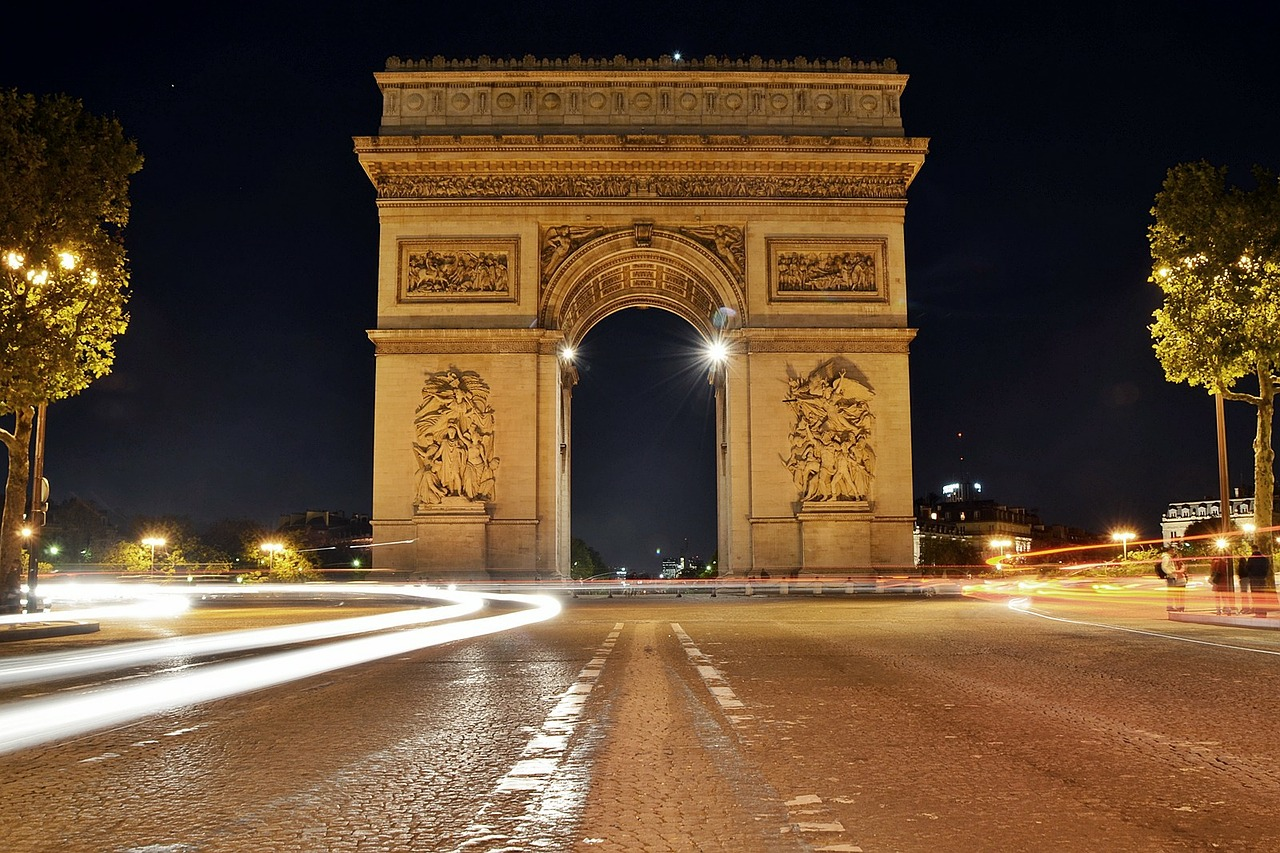
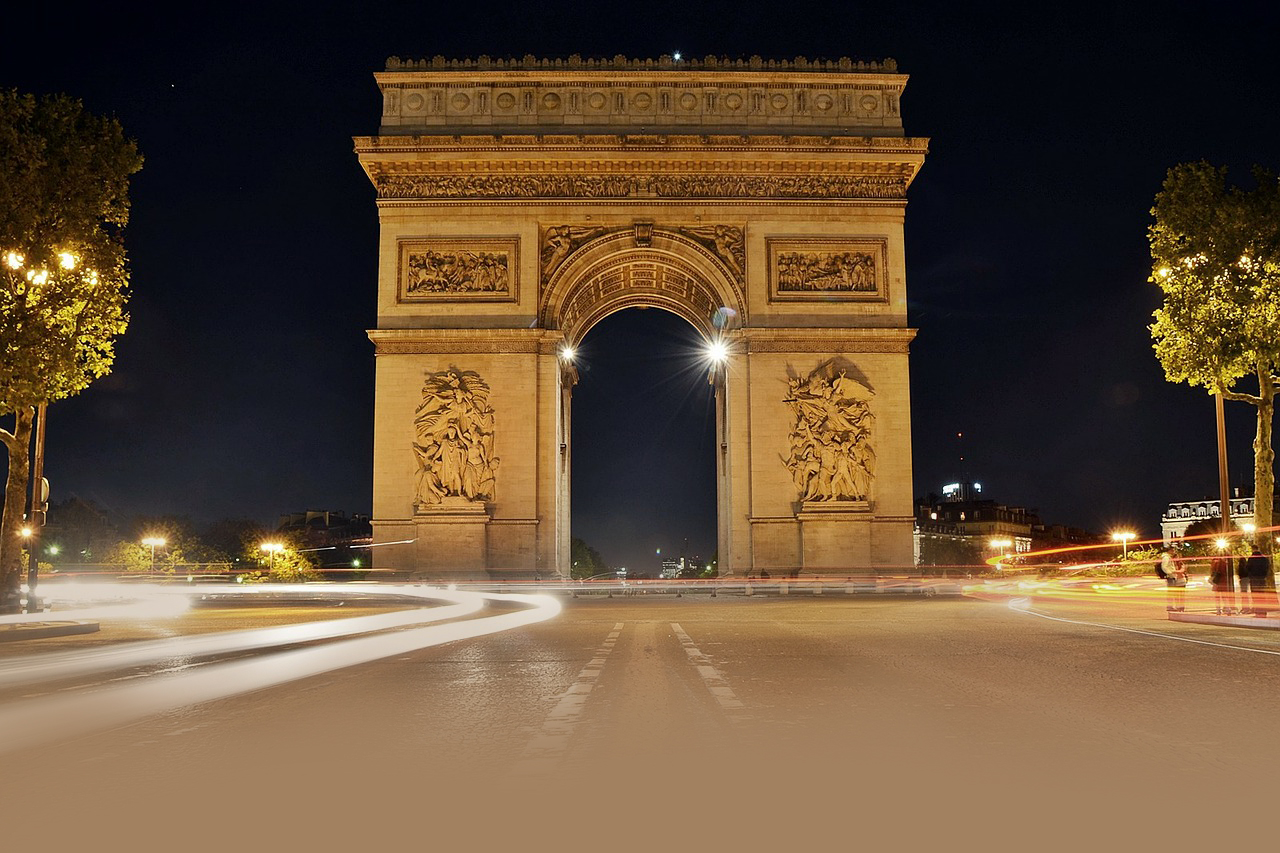
changed some styles in bg

Changed region(s): [[0.0, 0.6096, 1.0, 1.0]]

diff --git a/src/components/tours/Tours.js b/src/components/tours/Tours.js
@@ -1,8 +1,35 @@
 import React from 'react';
+import { Container, Col, Row } from "react-bootstrap";
 
 function Tours (){
     return (
-        <h1>Tours</h1>
+        <div className="tours-bg">
+            <Container>
+            <h1>Tours</h1>
+
+                <div>Ea sint nulla laborum minim nisi adipisicing ut laboris. Cillum aute reprehenderit ex aute anim pariatur aliquip do proident. Nisi ipsum duis esse nulla reprehenderit eiusmod culpa et.
+                    <p>Qui irure culpa magna non fugiat ut minim. Esse officia reprehenderit est cillum in sunt officia id ad nostrud nisi. Exercitation amet sit voluptate amet velit. Nulla esse ad consequat adipisicing nisi proident tempor esse Lorem id cillum irure. Voluptate duis culpa duis in exercitation occaecat officia proident ex magna amet tempor Lorem. Quis ad consectetur magna nulla laboris commodo enim irure ut anim laboris commodo.
+
+Excepteur veniam cupidatat magna cupidatat anim mollit do in tempor ut elit et aute. Magna enim labore consequat eiusmod officia deserunt reprehenderit voluptate est. Excepteur pariatur et reprehenderit minim commodo fugiat consectetur veniam mollit sit veniam. Enim in irure nisi eiusmod sint ullamco do culpa.
+
+Aliquip id qui dolor est exercitation culpa veniam. Ex consequat do enim ad officia pariatur elit velit ex quis et labore. Qui cillum laborum in do ut ut dolor dolore eiusmod reprehenderit magna enim deserunt non. Proident pariatur non culpa nulla do veniam in irure fugiat. Irure fugiat enim esse minim veniam non amet esse ad.
+
+Exercitation nulla laborum minim consectetur culpa culpa velit amet sunt officia dolor. Sint in Lorem ea nisi aliquip fugiat. Occaecat veniam esse dolor do laborum commodo aute et magna consectetur do in eiusmod ut. Dolore dolor non adipisicing irure in. Sit et excepteur sint anim. Sint laborum labore exercitation aute reprehenderit. Nulla veniam consectetur aliqua dolore incididunt do cillum.
+
+Do amet aliquip commodo eu nostrud aute ullamco tempor anim pariatur. Quis eiusmod excepteur esse magna id nisi sit fugiat ipsum. Esse amet quis irure cupidatat duis. Sint commodo dolor dolor elit qui qui irure proident est nulla. Non pariatur ipsum aliqua aute culpa.
+
+Cillum velit pariatur est est. Esse exercitation nisi amet aute id et officia sunt commodo proident esse dolore proident ullamco. Ad sit do et ea voluptate qui laboris veniam reprehenderit qui elit. Ea cupidatat duis est eu voluptate.
+
+Sunt cillum amet sunt proident laboris quis quis excepteur exercitation culpa eu. Anim sint exercitation minim et do id consequat consectetur laboris proident culpa culpa. Dolore minim ut consequat ea mollit ad velit ex ea non nulla duis dolor sint.
+
+Velit do irure pariatur eu esse nisi nulla magna aliquip voluptate sint. Excepteur pariatur nulla anim dolore tempor anim sunt aliqua ad sit incididunt aliquip anim. Non officia culpa irure qui sunt ex occaecat ipsum eu ullamco. Consectetur irure mollit sunt ex fugiat sit laborum do esse ullamco sint laboris officia. Quis enim dolore proident adipisicing sit tempor.
+
+Voluptate ad cupidatat do ipsum anim. Officia deserunt fugiat consequat sint sunt adipisicing esse pariatur magna amet. Ex proident est voluptate amet. Labore consectetur voluptate ut sit consequat. Tempor exercitation quis proident ea aliqua cupidatat veniam veniam dolore ipsum esse in.
+
+Aliqua eiusmod pariatur dolor consectetur anim deserunt mollit ut labore duis magna nostrud occaecat ea. Magna aute laborum enim excepteur eiusmod velit. Aliquip reprehenderit minim voluptate aliquip sint sit esse cupidatat fugiat excepteur. Laboris reprehenderit ipsum proident aliqua qui eiusmod labore ut occaecat elit velit labore. Laboris laborum mollit tempor adipisicing velit ullamco. In ipsum culpa proident dolor elit labore et velit occaecat aliquip consequat nisi.</p>       
+                </div>
+            </Container>
+        </div>
     );
 }
 

diff --git a/src/components/about/About.js b/src/components/about/About.js
@@ -1,8 +1,16 @@
 import React from 'react';
+import { Container, Col, Row } from "react-bootstrap";
 
 function About() {
     return (
-        <h1>About</h1>
+        <div className="about-bg">
+            <Container>
+            <h1>About</h1>
+
+                <div>Esse eu elit culpa in incididunt magna velit deserunt laboris elit qui magna eu. Dolore cupidatat magna eiusmod fugiat duis ad in ipsum consequat exercitation adipisicing dolor anim id. Nisi laboris cillum amet in nisi. Culpa nisi anim magna nisi minim aute sunt nostrud anim nisi. Ex minim esse do labore minim nisi ipsum ad dolore. Labore reprehenderit aliqua aute mollit consectetur velit velit pariatur non. Reprehenderit sunt duis sunt culpa ipsum mollit labore do exercitation consequat laboris in adipisicing.
+                </div>
+            </Container>
+        </div>
     );
 }
 

diff --git a/src/components/contact/Contact.js b/src/components/contact/Contact.js
@@ -1,8 +1,17 @@
 import React from 'react';
+import { Container, Col, Row } from "react-bootstrap";
 
 function Contact() {
     return (
-        <h1>Contact</h1>
+        <div className="contact-bg">
+            <Container>
+                <h1>Contact</h1>
+
+                <div>Ea sint nulla laborum minim nisi adipisicing ut laboris. Cillum aute reprehenderit ex aute anim pariatur aliquip do proident. Nisi ipsum duis esse nulla reprehenderit eiusmod culpa et.
+
+                </div>
+            </Container>
+        </div>
     );
 }
 

diff --git a/src/sass/partials/_backgrounds.scss b/src/sass/partials/_backgrounds.scss
@@ -1,0 +1,14 @@
+.home-bg {
+    @include bg-basics;
+    background-image: url("../../assets/images/bicycle-438400_1920.jpg");
+}
+
+.about-bg {
+    @include bg-basics;
+    background-image: url("../../assets/images/paris-1852928_1920.jpg");
+}
+
+.tours-bg {
+    @include bg-basics;
+    background-image: url("../../assets/images/arc-de-triomphe-101633_1280.jpg");
+}

diff --git a/src/sass/partials/_mixins.scss b/src/sass/partials/_mixins.scss
@@ -1,0 +1,8 @@
+@mixin bg-basics {
+    padding-top: 2vw;
+    width: 100vw;
+    height: 100vh;
+    background-position: center;
+    background-repeat: no-repeat;
+    background-size: cover;
+}

diff --git a/src/sass/style.scss b/src/sass/style.scss
@@ -3,6 +3,7 @@
 @import "./partials/general";
 @import "./partials/mixins";
 @import "./partials/variables";
+@import "./partials/backgrounds";
 
 
 //PAGE-SPECIFIC PARTIALS//
